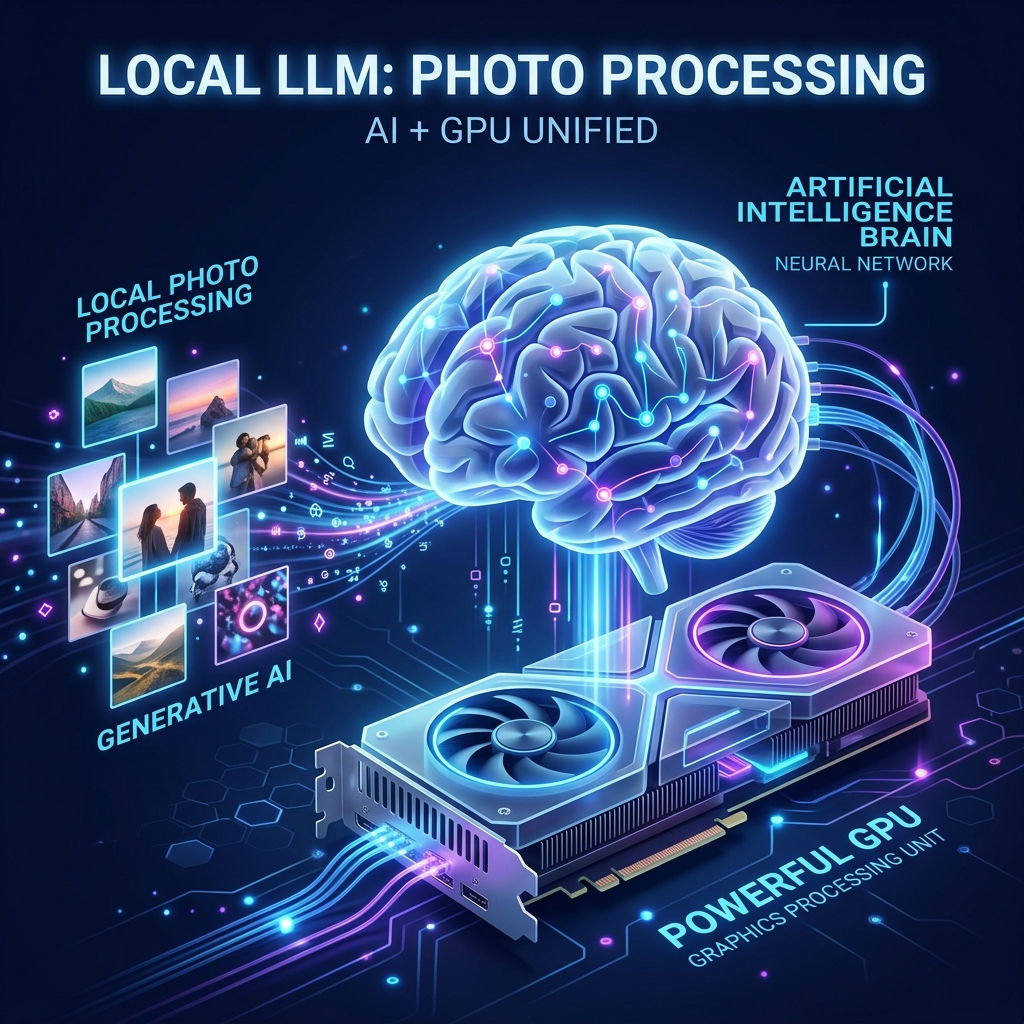
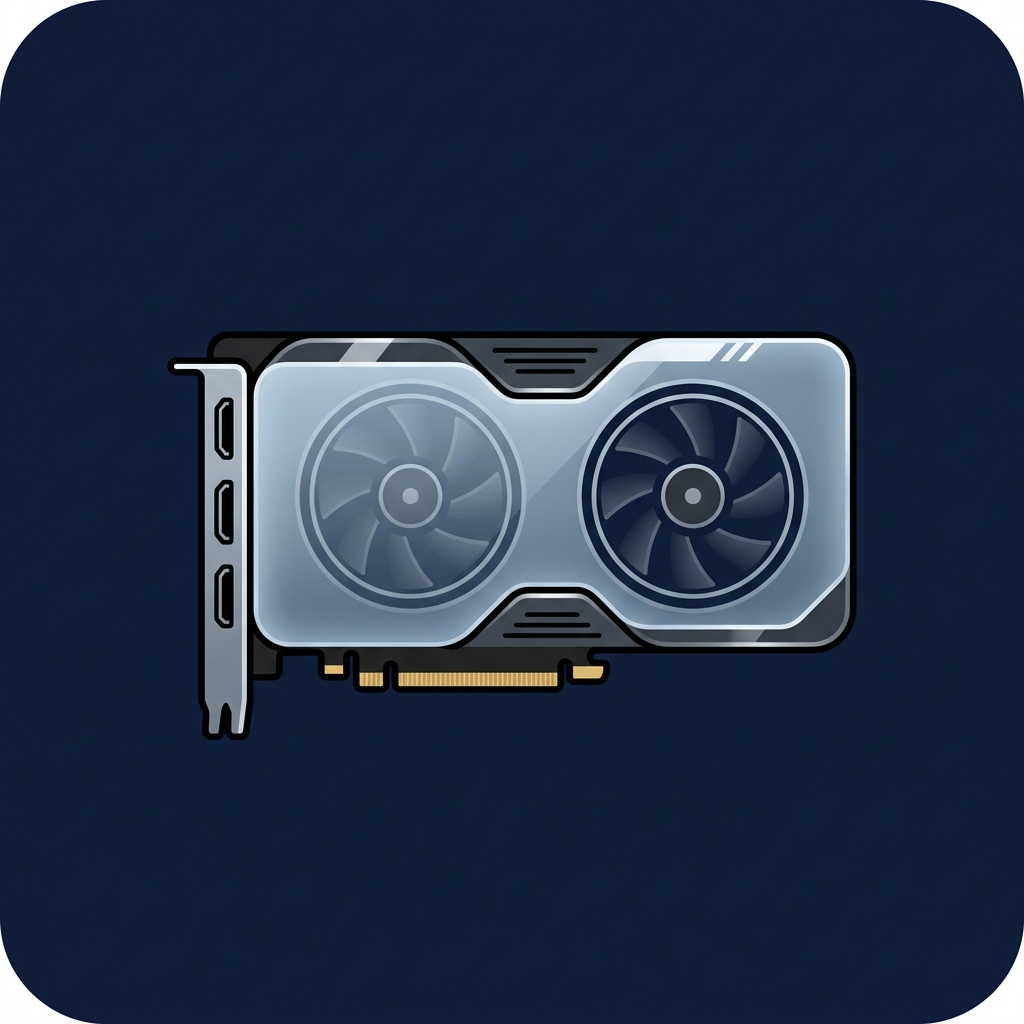
feat: Add mouse wheel zooming to architecture maps and update local llm cover art

diff --git a/index.html b/index.html
@@ -236,8 +236,6 @@ flowchart LR
                     </pre>
                 </div>
             </div>
-            
-            <p style="color: var(--text-secondary); text-align: center; margin-top: 2.5rem; font-size: 0.95rem;"><em>Source code is completely local and proprietary. No public GitHub repository is available.</em></p>
         </div>
     </div>
 
@@ -254,7 +252,28 @@ flowchart LR
             // Render Mermaid diagrams if they exist in the new content
             setTimeout(() => {
                 if (window.mermaid) {
-                    window.mermaid.run({ querySelector: '#modal-body .mermaid' });
+                    window.mermaid.run({ querySelector: '#modal-body .mermaid' }).then(() => {
+                        const svgElement = document.querySelector('#modal-body .mermaid svg');
+                        if (svgElement) {
+                            svgElement.style.transition = 'transform 0.1s ease-out';
+                            svgElement.style.transformOrigin = 'center center';
+                            let scale = 1;
+                            
+                            // Mouse wheel zoom
+                            svgElement.parentElement.addEventListener('wheel', (e) => {
+                                e.preventDefault();
+                                scale += e.deltaY * -0.0015;
+                                scale = Math.min(Math.max(0.5, scale), 4);
+                                svgElement.style.transform = `scale(${scale})`;
+                            }, { passive: false });
+                            
+                            // Double click to reset zoom
+                            svgElement.parentElement.addEventListener('dblclick', () => {
+                                scale = 1;
+                                svgElement.style.transform = `scale(${scale})`;
+                            });
+                        }
+                    });
                 }
             }, 50);
 
